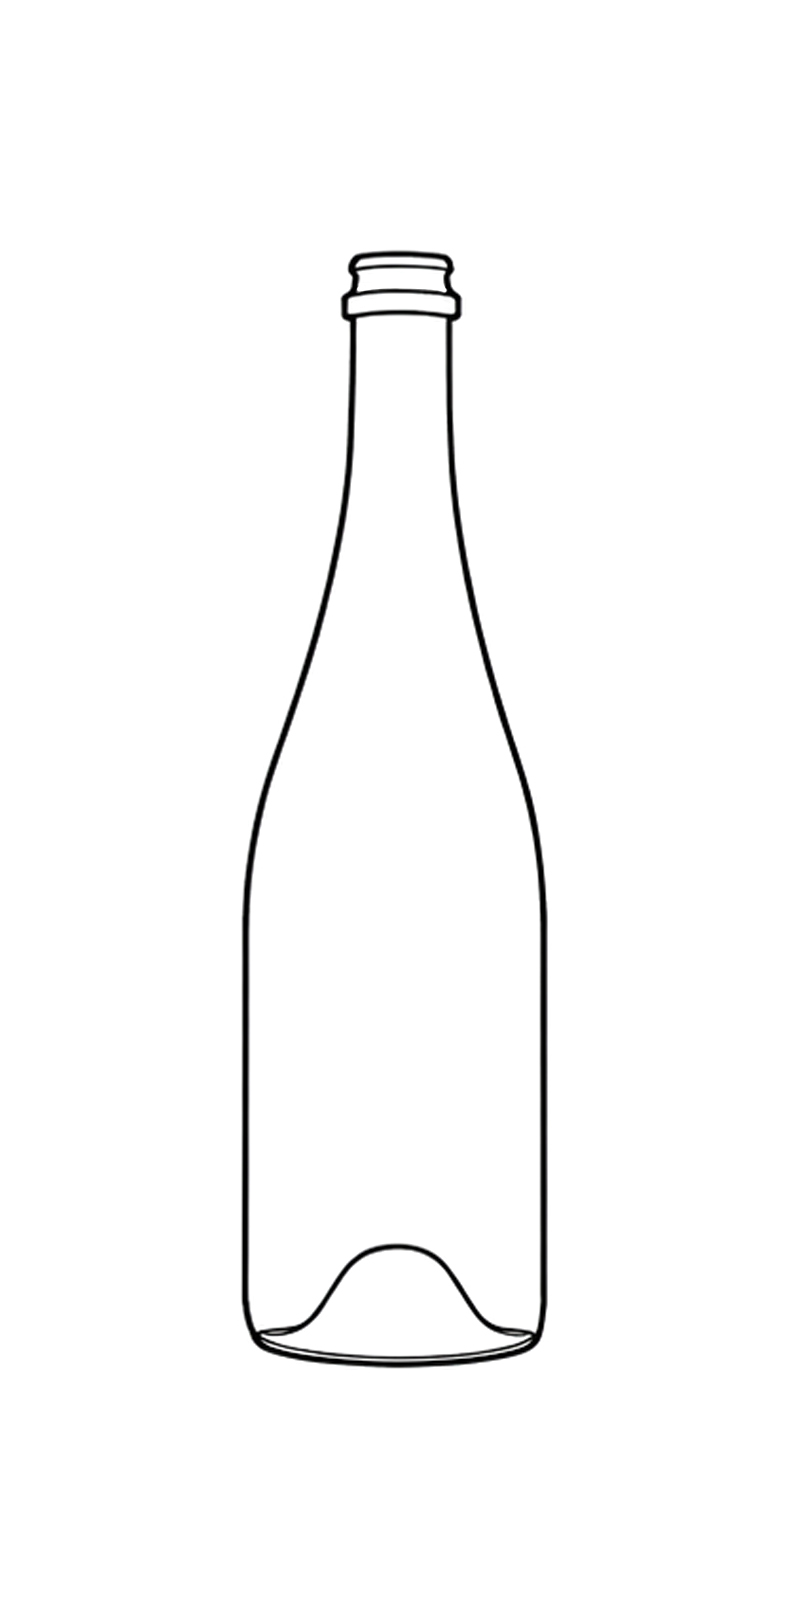
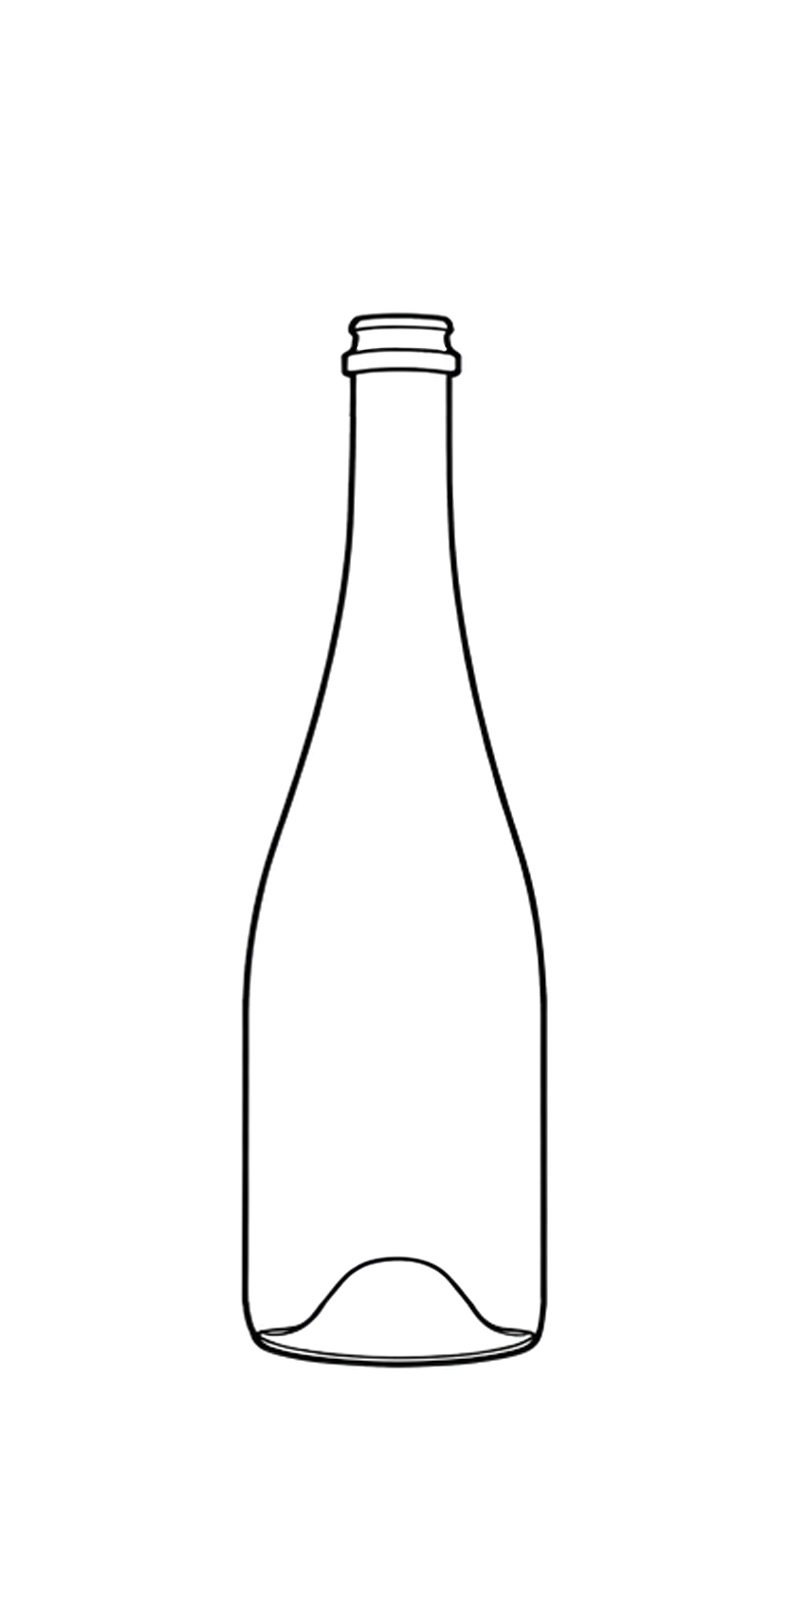
Round 30: white ink on dark back-label grounds, new sparkling bottle image, upright orientation + edge-to-edge label rules, slot-5 glass loader, unnumbered final-pack titles

Changed region(s): [[0.2812, 0.1562, 0.6875, 0.625], [0.4062, 0.75, 0.5938, 0.8125]]

diff --git a/src/app/page.tsx b/src/app/page.tsx
@@ -215,6 +215,16 @@ export default function NewUI() {
   /* ingredients text file for the future QR landing page (owner 2026-09-07) */
   const [ingredients, setIngredients] = useState("");
   const [productUrl, setProductUrl] = useState("");
+  /* round 30 #5: the slot-5 thumb takes a few seconds to build — the mini
+     glass fills (same living-loader behaviour) until the iframe loads */
+  const [ppLoaded, setPpLoaded] = useState(false);
+  const [ppFill, setPpFill] = useState(0.14);
+  useEffect(() => { setPpLoaded(false); setPpFill(0.14); }, [productUrl]);
+  useEffect(() => {
+    if (!productUrl || ppLoaded) return;
+    const iv = setInterval(() => setPpFill((v) => Math.min(0.9, v + 0.11)), 700);
+    return () => clearInterval(iv);
+  }, [productUrl, ppLoaded]);
   const [backPng, setBackPng] = useState("");
   const [backPayload, setBackPayload] = useState<Record<string, unknown> | null>(null);
   const [backSig, setBackSig] = useState("");
@@ -1210,7 +1220,7 @@ export default function NewUI() {
           {/* slot-1 heading is OUTLINED in the artboard (not live text) —
               covered and re-rendered so ENG/GEO both translate (2026-09-07) */}
           {patch(136, 168, 185, 38, "slot1h")}
-          <span style={{ ...px(137.14, 183.93 - (IN_BASE - 2), 200, 16), font: `700 15px ${HNW}`, lineHeight: "16px" }}>{t("1. Front label")}</span>
+          <span style={{ ...px(137.14, 183.93 - (IN_BASE - 2), 200, 16), font: `700 15px ${HNW}`, lineHeight: "16px" }}>{t("Front label")}</span>
           <span style={{ ...px(137.14, 198.33 - 12.4, 300, 16), font: `12px ${HNW}`, lineHeight: "16px", whiteSpace: "nowrap" }}>{t("Print ready high resolution file")}</span>
           {/* round 8 #14 / round 14 #9: real sizes instead of ???x???, in the
               design's own 12px subtitle size on its baseline 227.13 */}
@@ -1249,7 +1259,14 @@ export default function NewUI() {
                       {["#FF5F57", "#FEBC2E", "#28C840"].map((c) => <span key={c} style={{ width: 4.5, height: 4.5, borderRadius: 3, background: c }} />)}
                       <span style={{ flex: 1, margin: "0 8px", height: 7, background: "#fff", borderRadius: 3, font: `5px ${HNW}`, color: "#999", paddingLeft: 4, lineHeight: "7px" }}>8klabels.com{productUrl}</span>
                     </div>
-                    <iframe src={productUrl} title="product page" style={{ width: W, height: 823, transform: "scale(0.1236)", transformOrigin: "0 0", border: 0, pointerEvents: "none" }} />
+                    <iframe src={productUrl} title="product page" onLoad={() => setPpLoaded(true)} style={{ width: W, height: 823, transform: "scale(0.1236)", transformOrigin: "0 0", border: 0, pointerEvents: "none" }} />
+                    {/* round 30 #5: while the live page builds, the little
+                        wine glass fills in the thumb's centre */}
+                    {!ppLoaded && (
+                      <div style={{ position: "absolute", left: 0, top: 13, right: 0, bottom: 0, background: "#fff", display: "flex", alignItems: "center", justifyContent: "center" }}>
+                        {miniGlass("ppload", ppFill)}
+                      </div>
+                    )}
                   </div>
                   {/* eslint-disable-next-line @next/next/no-img-element */}
                   <img src={`/api/qr?u=${encodeURIComponent(`https://8klabels.com${productUrl}`)}`} alt="QR"

diff --git a/src/lib/marketing/engine.ts b/src/lib/marketing/engine.ts
@@ -163,6 +163,7 @@ export function buildShotPrompt(b: MarketingBrief, side: "front" | "back", hasSh
   const d = bottleDescription(b);
   return (
     `Professional studio product photograph of a single wine bottle, photographed dead straight-on, ` +
+    `the bottle standing PERFECTLY UPRIGHT and vertical, ` +
     `${side === "front" ? "showing the FRONT of the bottle" : "showing the BACK of the bottle"}, the whole bottle in frame from base to closure with a small margin. ` +
     (charter ? `Art director's studio notes (follow their spirit): ${charter} ` : "") +
     `${d.text} ` +
@@ -170,6 +171,8 @@ export function buildShotPrompt(b: MarketingBrief, side: "front" | "back", hasSh
     `perfectly legible, wrapped naturally onto the glass curvature. Do NOT redraw, reinterpret, crop or add any text. ` +
     /* round 29 #6: never fake paper grain on the label */
     `The label surface is SMOOTH flat print — NEVER invent paper grain, fibre or canvas texture on the label; only a subtle sheen where light grazes it. ` +
+    /* round 30 #4: no white slivers above/below the applied label */
+    `The label is applied EDGE-TO-EDGE: its printed area ends exactly at its own edges — never leave white slivers, strips or margins along the label's top or bottom, and never add any border around it. ` +
     /* round 29 #5: bottle and label must be lit as one object */
     `ONE LIGHT: the label is lit by exactly the same light as the glass — same direction, same colour temperature, same contrast and shadow fall — so bottle and label read as ONE object photographed together, never as a graphic pasted on afterwards. ` +
     (hasShape
@@ -213,6 +216,9 @@ export function buildLifestylePrompt(b: MarketingBrief, scenario: string, charte
     `The wine bottle: ${d.text} ` +
     `The FIRST attached image is the wine's front label — it appears on the bottle EXACTLY as given, legible and true to its colours; never redraw or replace it. ` +
     `The label is lit by the same scene light as the bottle (one photographed object, never a pasted-on graphic), and its surface is smooth flat print — no invented paper grain or fibre texture. ` +
+    /* round 30 #3: a lifestyle image came out with a horizontal bottle and
+       a sideways label — orientation is now explicit */
+    `ORIENTATION — NON-NEGOTIABLE: the bottle STANDS UPRIGHT (vertical) in the scene — never lying down, never horizontal; if wine is being poured the bottle tilts naturally in the hand but is never flat. The label always reads upright and horizontal — never sideways, never rotated, never upside down. ` +
     (hasShape
       ? `The SECOND attached image is a technical outline of this exact bottle model — the bottle in the photo matches that GLASS silhouette and its proportions precisely (the closure drawn in the outline is irrelevant; the closure specified above overrides it). `
       : "") +

diff --git a/src/lib/back-label.ts b/src/lib/back-label.ts
@@ -278,11 +278,19 @@ export async function composeBackLabel(
     W = cand; lay = layoutAt(W);
   }
 
-  let body = "";
+  /* ROUND 30 #1: legibility on dark grounds — everything printed ON the
+     ground colour flips to white ink when the ground is darker than 50%
+     grey; the codes band below y61.5 is always white, its ink stays black */
+  const bg = /^#[0-9a-fA-F]{6}$/.test(opts.bgColor || "") ? (opts.bgColor as string) : "#FFFFFF";
+  const luma = (parseInt(bg.slice(1, 3), 16) * 299 + parseInt(bg.slice(3, 5), 16) * 587 + parseInt(bg.slice(5, 7), 16) * 114) / 1000;
+  const ink = luma < 128 ? "#FFFFFF" : "#000000";
+
+  let layout = "";
   for (const r2 of lay.rules)
-    body += `<rect x="${(4 * s).toFixed(2)}" y="${(r2 * s).toFixed(2)}" width="${((W - 8) * s).toFixed(2)}" height="${(0.2 * s).toFixed(2)}" fill="#000"/>`;
-  for (const pt2 of lay.parts) body += T(pt2.x, pt2.y, pt2.size, pt2.text, pt2.weight || 400, pt2.anchor || "start");
-  body += lay.rich.join("");
+    layout += `<rect x="${(4 * s).toFixed(2)}" y="${(r2 * s).toFixed(2)}" width="${((W - 8) * s).toFixed(2)}" height="${(0.2 * s).toFixed(2)}"/>`;
+  for (const pt2 of lay.parts) layout += T(pt2.x, pt2.y, pt2.size, pt2.text, pt2.weight || 400, pt2.anchor || "start");
+  layout += lay.rich.join("");
+  let body = `<g fill="${ink}">${layout}</g>`;
 
   /* — CODES BAND on clean white (template): QR 14.55mm at (4, 61.45);
      BOTTLED beside it @(21.3, 65.5) 7.7pt; See ingredients @(21.2, 76.0);
@@ -319,7 +327,6 @@ export async function composeBackLabel(
 
   const Wmm = W * s;
   const H = BASE * s;
-  const bg = /^#[0-9a-fA-F]{6}$/.test(opts.bgColor || "") ? opts.bgColor : "#FFFFFF";
   /* 2mm print bleed on every side for deliverables (round 18 #1, as in the
      owner's template: backgrounds extend into the bleed, the ground-stop
      line stays exactly where it is) */

diff --git a/src/app/newui-i18n.ts b/src/app/newui-i18n.ts
@@ -116,15 +116,15 @@ export const SVG_GE: Record<string, string> = {
   "Product placed in contextual environments": "პროდუქტი კონტექსტურ გარემოში",
   /* checkout */
   "FINAL PACK": "ᲡᲐᲑᲝᲚᲝᲝ ᲞᲐᲙᲔᲢᲘ",
-  "1. Front label": "1. წინა ეტიკეტი",
+  "Front label": "წინა ეტიკეტი",
   "Print ready high resolution file": "მაღალი გარჩევადობის საბეჭდი ფაილი",
-  "2. Back label": "2. უკანა ეტიკეტი",
+  "Back label": "უკანა ეტიკეტი",
   "Print ready editable vector file": "რედაქტირებადი ვექტორული ფაილი",
-  "3. Product Shots": "3. პროდუქტის ფოტოები",
-  "4. Marketing Images": "4. სამარკეტინგო ფოტოები",
+  "Product Shots": "პროდუქტის ფოტოები",
+  "Marketing Images": "სამარკეტინგო ფოტოები",
   "Product placed in": "პროდუქტი კონტექსტურ",
   "contextual environments": "გარემოში",
-  "5. Product Landing Page": "5. პროდუქტის გვერდი",
+  "Product Landing Page": "პროდუქტის გვერდი",
   "You will be provided with the link": "მოგეწოდებათ ბმული",
   "to your product page.": "თქვენი პროდუქტის გვერდზე.",
 };

diff --git a/CONTINUE-HERE.md b/CONTINUE-HERE.md
@@ -1990,6 +1990,24 @@ composition-contract tightening, then customer wiring.
   2.5px low (HNW's tall ascent vs naive flex centring) —
   paddingBottom 5 measured in: ink centre now within 0.5px of the
   button centre.
+- ROUND 30 (owner 2026-09-08, 6 items): (1) BACK-LABEL INK RULE
+  (standing): ground darker than 50% grey (luma<128) → ALL layout ink
+  (texts, rules, By-brand row) flips WHITE via one <g fill> wrapper;
+  the codes band below y61.5 is always white and its ink stays black.
+  (2) sparkling.jpg replaced with the owner's new image (same 800×1600
+  — feeds both the wizard bottle page AND bottleShapeRef). (3) prompts:
+  ORIENTATION — NON-NEGOTIABLE in lifestyle (bottle upright, label
+  reads horizontal; pour may tilt, never flat) + "PERFECTLY UPRIGHT"
+  in shots — a lifestyle came out horizontal with a sideways label.
+  (4) shots: label applied EDGE-TO-EDGE — never white slivers above/
+  below the label, never a border. (5) slot-5 thumb: while the iframe
+  loads, the mini wine glass (living-loader fill, 700ms ticks
+  0.14→0.9) sits centred in the browser frame on white; onLoad hides
+  it; resets when productUrl changes. (6) final-pack titles lost their
+  numbers ("Front label"…) — slot-1 heading is live, slots 2-5 edited
+  in checkout.svg tspans, SVG_GE keys renamed to match.
+  NOTE: NOT on Vercel — the app runs as a local `npm run start` on
+  :3000; hosting/domain decision still pending.
 - ROUND 29 (owner 2026-09-08, 7 items): (1+7) GTIN checksum was
   rejecting random test numbers → ANY 12/13-digit number is now
   accepted and drawn; only the final check digit is auto-corrected so
